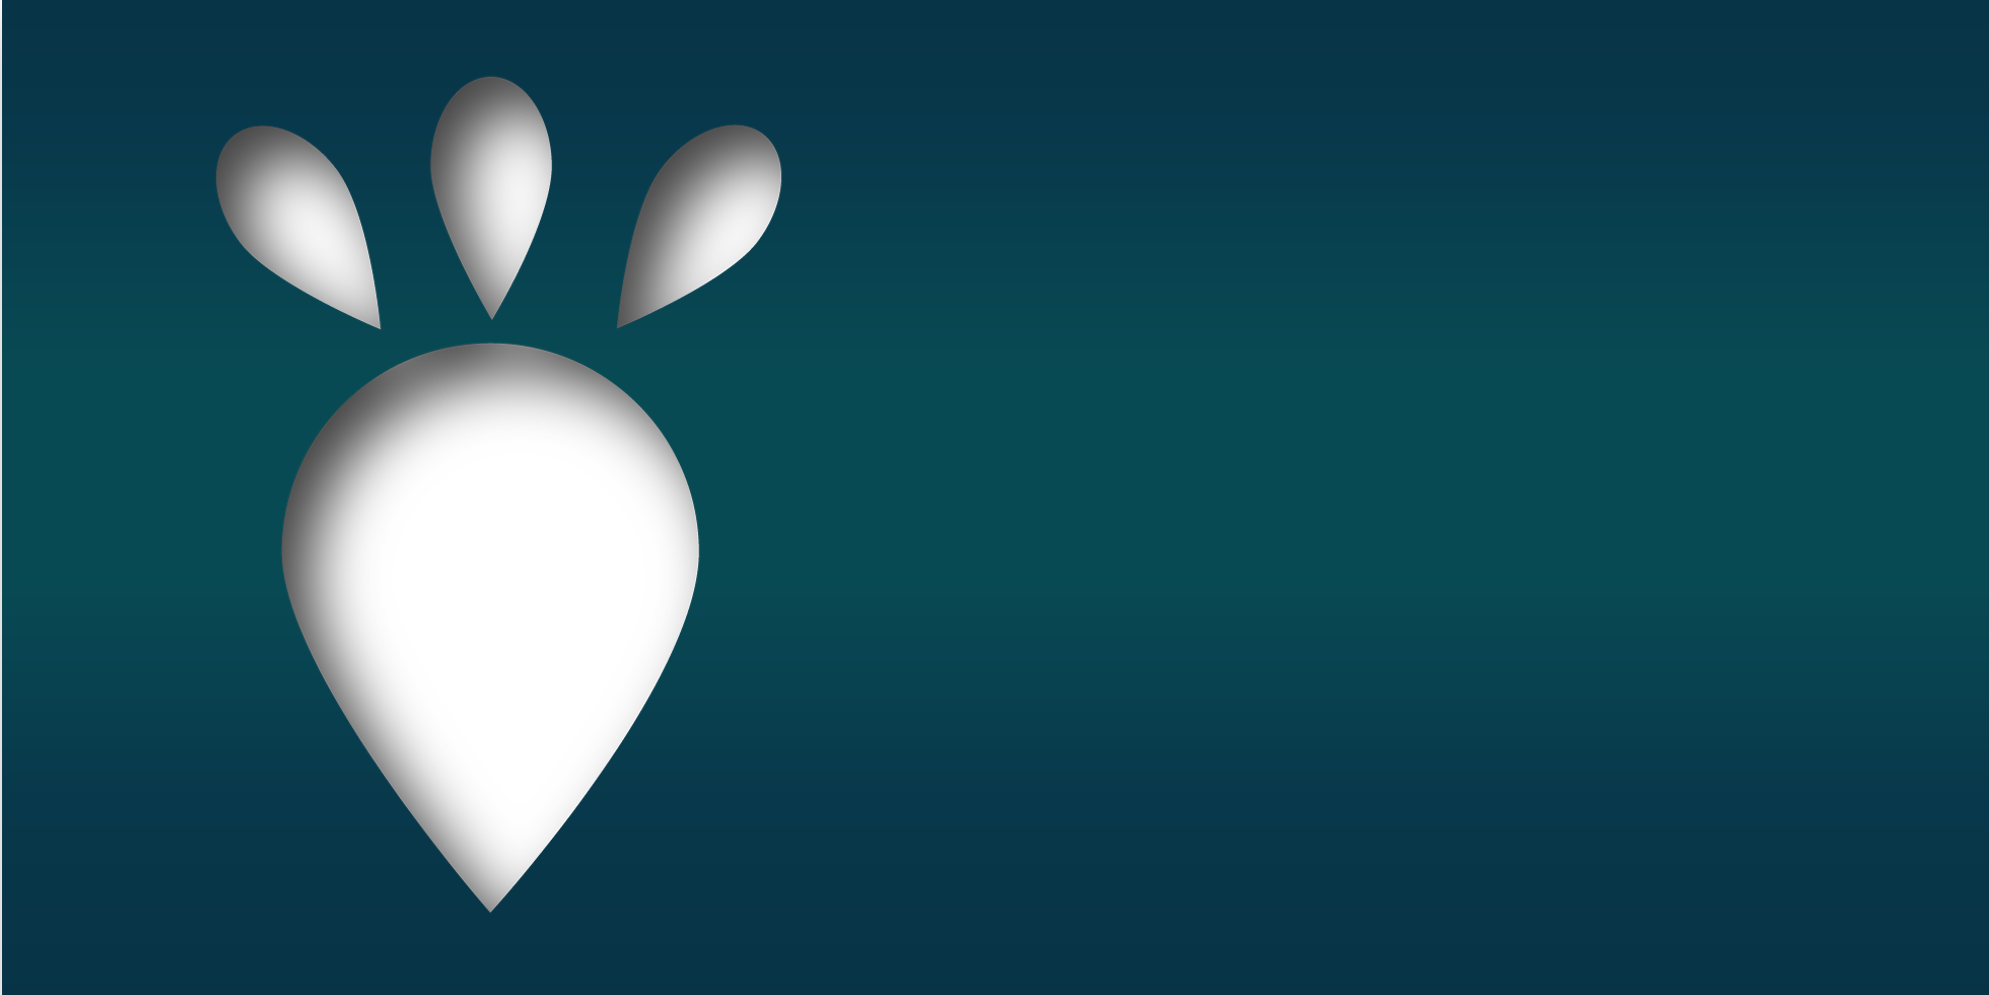
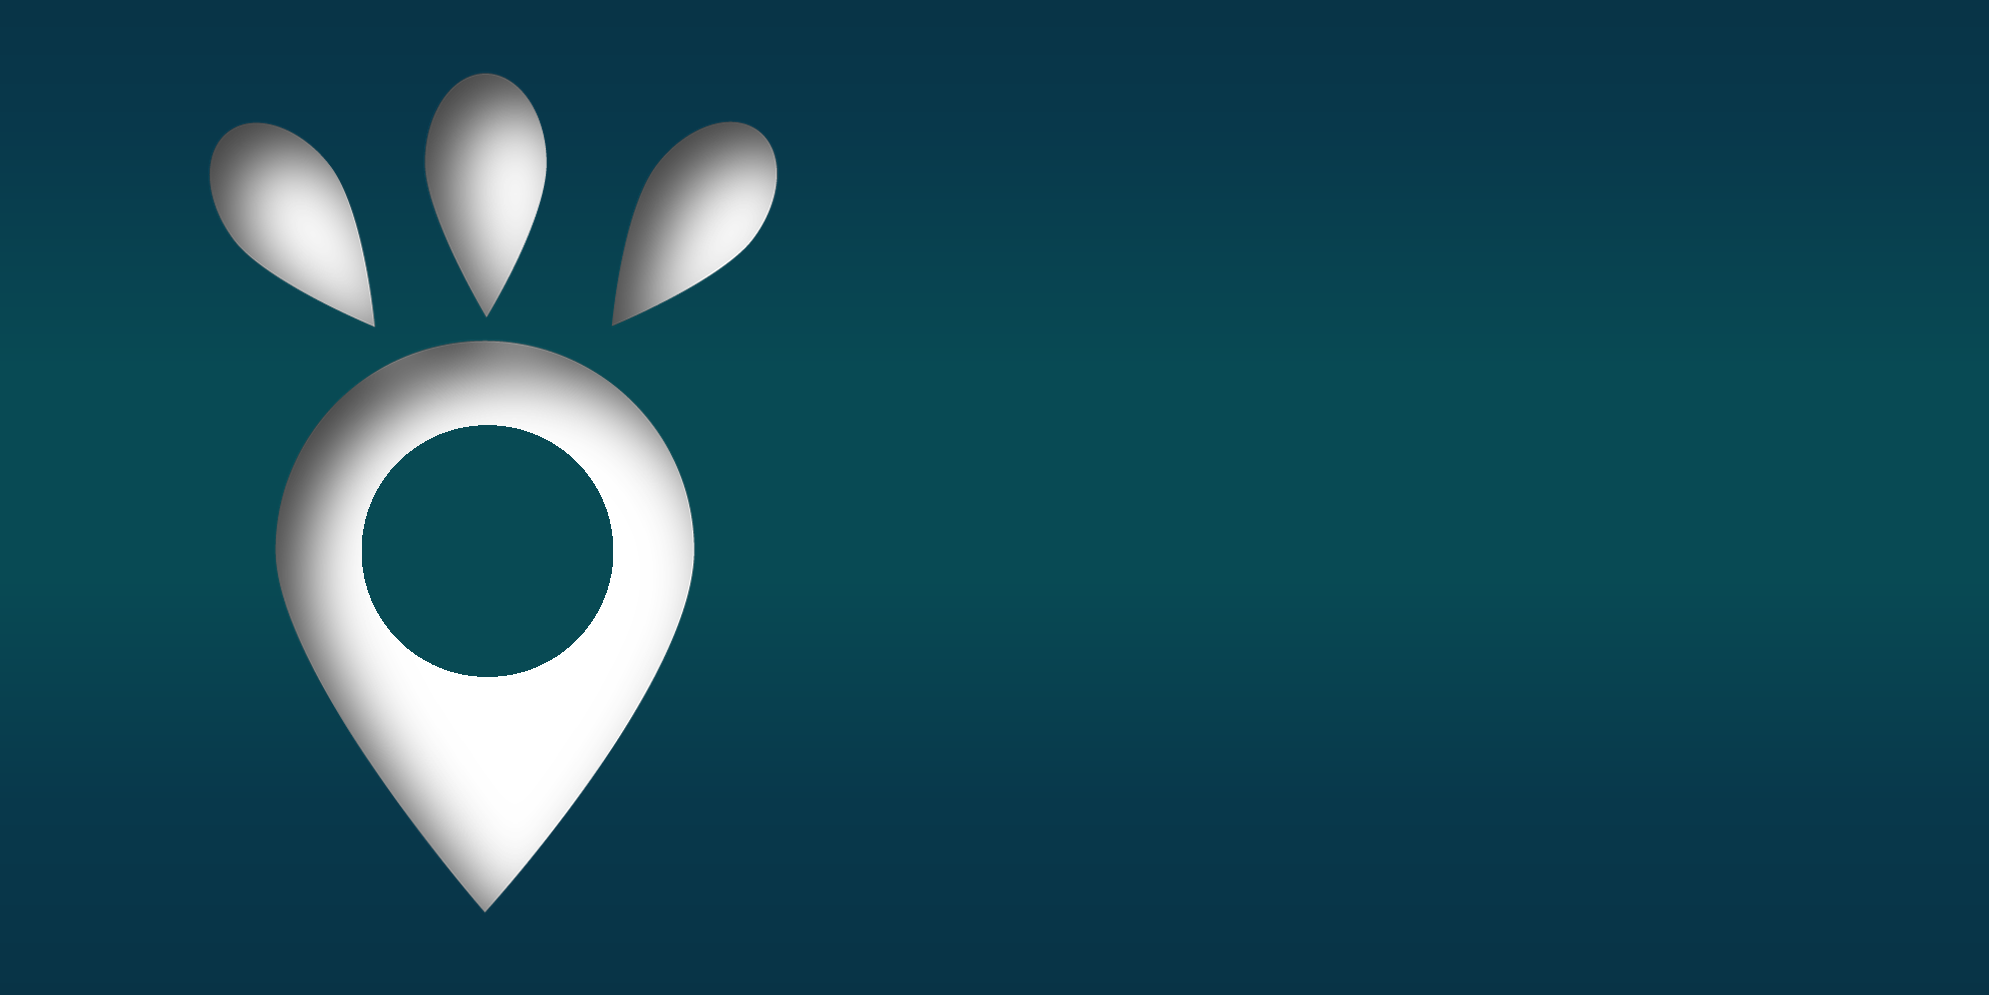
update homapage

diff --git a/public/css/Home.css b/public/css/Home.css
@@ -56,18 +56,23 @@
 /*HEADER*/
 
 .container-fluid{
-	padding: 0 !important; 
-	display: block;
+	padding: 0 !important;
 }
 
 .container2{
-	width: 800px;;
+	width: 800px;
 }
 
-.VIDEOMap{
+#gifMAP{
 	position: absolute;
-	z-index: -1;
-	top: 5vh;
+	z-index: 0;
+	top: 76px;
+	left : 195px;
+}
+
+#gifMAP img{
+	height: 920px;
+	width: auto;
 }
 
 #SloganLUSCIOL{
@@ -180,10 +185,10 @@
 
 .Arrow{
 	text-align: center; 
-	position: relative; 
-	z-index: 4; 
+	position: absolute;
+	z-index: 4;
 	top: 90vh;
-	transition: 500ms ease-in;
+	transition: 1s ease;
 }
 
 .ScrollDown{

diff --git a/public/js/Home.js b/public/js/Home.js
@@ -4,7 +4,7 @@ $(function(){
           var target = $(this.hash);
           if (target.length == 0) target = $('a[name="ScrollDown' + this.hash.substr(1) + '"]');
           if (target.length == 0) target = $('html');
-          $('html, body').animate({ scrollTop: target.offset().top }, 3000);
+          $('html, body').animate({ scrollTop: target.offset().top }, 1000);
           return false;
       });
 
